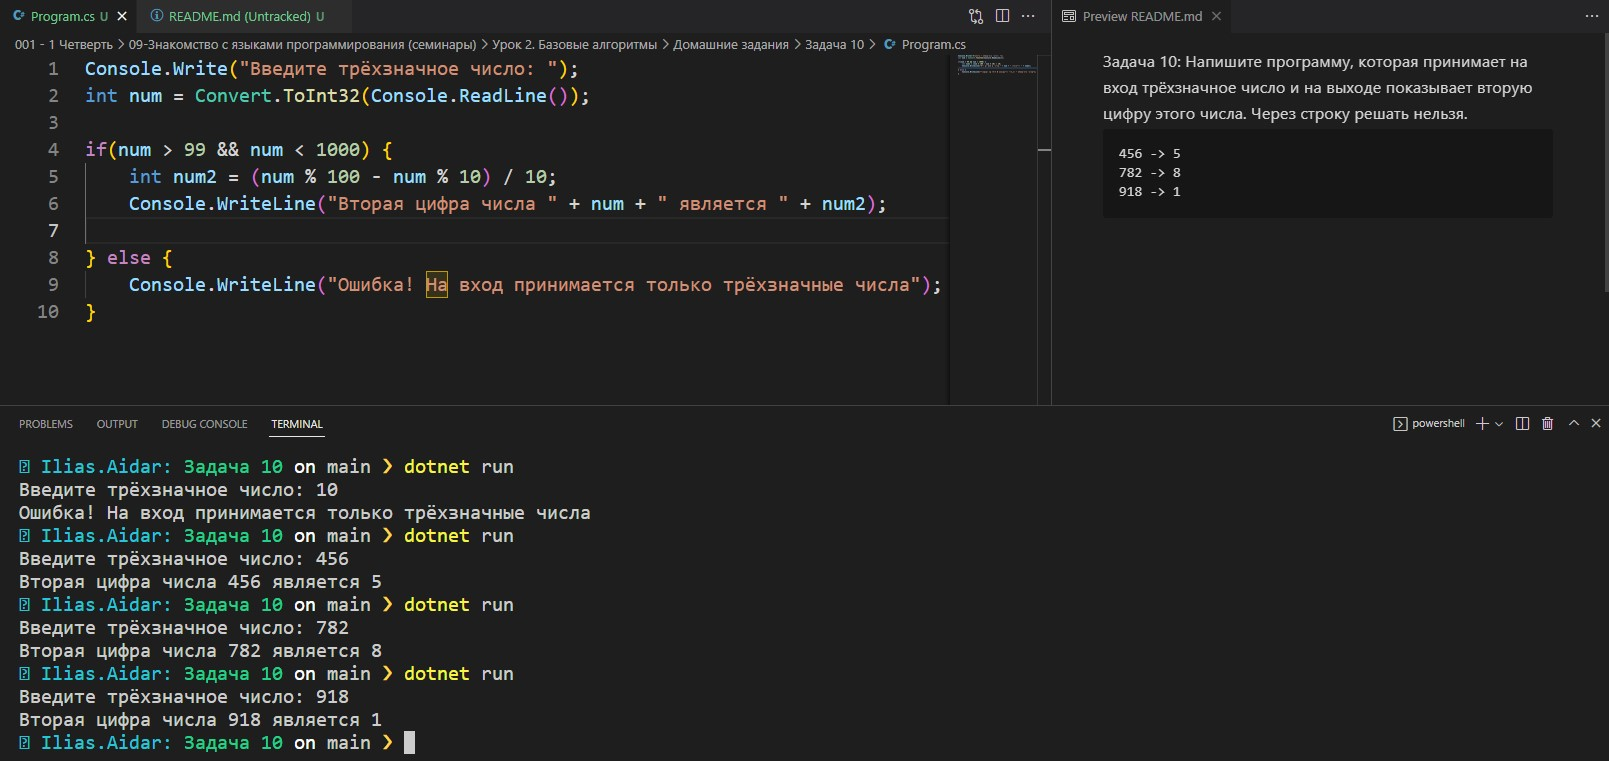
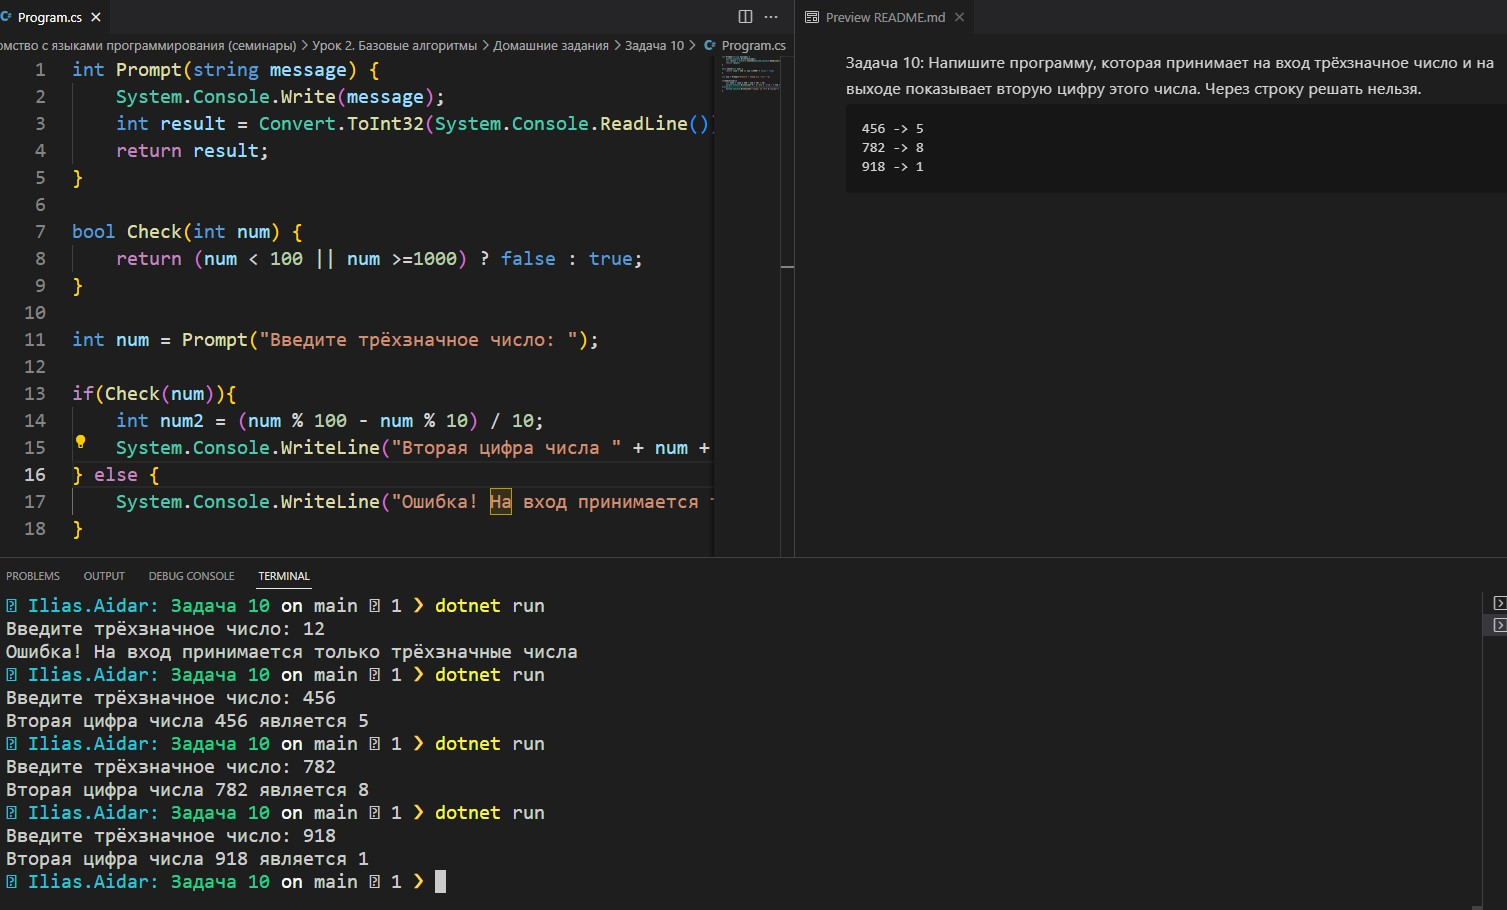
updated task10

diff --git a/001 - 1 Четверть/09-Знакомство с языками программирования (семинары)/Урок 2. Базовые алгоритмы/Домашние задания/Задача 10/Program.cs b/001 - 1 Четверть/09-Знакомство с языками программирования (семинары)/Урок 2. Базовые алгоритмы/Домашние задания/Задача 10/Program.cs
@@ -1,10 +1,18 @@
-Console.Write("Введите трёхзначное число: ");
-int num = Convert.ToInt32(Console.ReadLine());
+int Prompt(string message) {
+    System.Console.Write(message);
+    int result = Convert.ToInt32(System.Console.ReadLine());
+    return result;
+}
 
-if(num > 99 && num < 1000) {
+bool Check(int num) {
+    return (num < 100 || num >=1000) ? false : true;
+}
+
+int num = Prompt("Введите трёхзначное число: ");
+
+if(Check(num)){
     int num2 = (num % 100 - num % 10) / 10;
-    Console.WriteLine("Вторая цифра числа " + num + " является " + num2);
-
+    System.Console.WriteLine("Вторая цифра числа " + num + " является " + num2);
 } else {
-    Console.WriteLine("Ошибка! На вход принимается только трёхзначные числа");
+    System.Console.WriteLine("Ошибка! На вход принимается только трёхзначные числа");
 }

diff --git a/001 - 1 Четверть/09-Знакомство с языками программирования (семинары)/Урок 2. Базовые алгоритмы/Домашние задания/Задача 10/README.md b/001 - 1 Четверть/09-Знакомство с языками программирования (семинары)/Урок 2. Базовые алгоритмы/Домашние задания/Задача 10/README.md
@@ -4,6 +4,3 @@
 782 -> 8
 918 -> 1
 ```
-
-### Результат скриншотом
-![image](screenshot/result.jpg)
